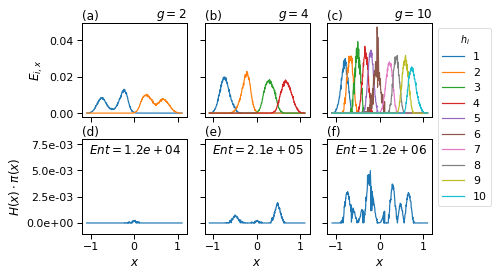
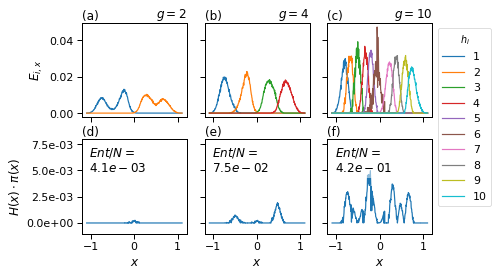
Commit before structural change.

Changed region(s): [[0.6627, 0.5217, 0.8735, 0.6377], [0.1807, 0.5217, 0.3614, 0.6377], [0.4217, 0.5217, 0.6024, 0.6377]]

diff --git a/chapters/hmm_selection/text.tex b/chapters/hmm_selection/text.tex
@@ -98,42 +98,42 @@ The likelihood of  a hidden Markov model is given by \cite{noeProjectedHiddenMar
 \end{split}
 \end{equation}
 
-
 Here $\{s_t\}$ are the observed state trajectories and $\{h_t\}$ are the (unknown) hidden state trajectories. This quantity will be simplified to $L(\theta)$. likelihood is maximized by the Baum Welch algorithm [][] and the corresponding value will be denoted $L(\hat{\theta})$ where $\hat{\theta}$ are the maximum likelihood estimates of the HMM parameters. It is usual to work with the log likelihood and this will be denoted $LL(\hat{\theta})$. 
 
-The optimal values of the CVLL and the AIC both minimize the \emph{Kullback-Leibler} divergence, $D_{KL}(p||p^*)$ - a measure of the difference of one probability distribution, here the modelled distribution,  $p(\{s_t\} | \hat{\theta})$  and a reference distribution, $p^{*}(\{s_t\})$: 
+The optimal values of the CVLL and the AIC both minimize the \emph{Kullback-Leibler} divergence, $D_{KL}(p||q)$ - a measure of the difference of one probability distribution, here the modelled distribution,  $p(\{s_t\} | \hat{\theta})$  and a reference or true distribution, $q(\{s_t\})$: 
 
 \begin{equation}\label{eqn:kl_div}
 \begin{split}
-    D_{KL}(p||p^*) & = \int p^{*}(\{s_t\}) \log{\left(\frac{ p^{*}(\{s_t\}) }{p(\{s_t\} | \hat{\theta})}  \right)} d(\{s_t\}) \\ 
-    & = \int p^{*}(\{s_t\}) \log{\left(p^{*}(\{s_t\})\right)}d(\{s_t\}) - \int p^{*}(\{s_t\})\log{\left(p(\{s_t\} | \hat{\theta})\right)} d(\{s_t\})
+    D_{KL}(p||q) & = \int q(\{s_t\}) \log{\left(\frac{ q(\{s_t\}) }{p(\{s_t\} | \hat{\theta})}  \right)} d(\{s_t\}) \\ 
+    & = \int q(\{s_t\}) \log{\left(q(\{s_t\})\right)}d(\{s_t\}) - \int q(\{s_t\})\log{\left(p(\{s_t\} | \hat{\theta})\right)} d(\{s_t\})
 \end{split}
 \end{equation}
 
-The optimal values of the BIC and ICL maximize the types of integrated likelihood. Minimizing the BIC is equivalent to choosing the model with the largest Bayes factor or the model with the largest posterior probability, given the data. The likelihood used is the observed likelihood (equation \ref{eqn:obs_lik_full}) but integrated over the parameters $\tilde{\mathbf{T}}$ and $\mathbf{E}$: 
+The BIC is an approximation to the log of the observed likelihood, which is the integral of the likelihood over the parameters $\tilde{\mathbf{T}}$ and $\mathbf{E}$: 
 
 \begin{equation}\label{eqn:obs_lik_int}
         p(\{s_t\}) = \int p\left(\{s_{t}\}\middle |\theta \right)p(\theta) \mathrm{d}\theta
 \end{equation}
 
-In the case of the ICL, the likelihood is the complete data likelihood: 
+Here $p(\theta)$ is the prior distribution over the HMM parameters (the transition and emission matrix elements).  The Integrated likelihood selects the model with the greatest evidence for the observed states, i.e. the model with the highest posterior probability, given the observed states only. It naturally penalises more complex models [][], in this case models with larger numbers of hidden states. It has been used to evaluate the quality of coarse graining schemes []. 
+
+The ICL is an approximation to the complete data likelihood: 
 \begin{equation}\label{eqn:class_lik_int}
     p(\{(s_t, h_t)\} = \int p\left(\{(s_{t}, h_{t})\}\middle |\theta \right)p(\theta) \mathrm{d}\theta
 \end{equation}
 
-Although the hidden states are not observed, the hidden states for each MD frame is  taken to be the state with the largest posterior probability, given the observed state i.e. $\arg\max_{i}p(h=i|s=j)$.  
+The Integrated complete likelihood selects the model with the greatest evidence for the observed states and the hidden states. Although the hidden states are not observed, the hidden states are  taken to be the state with the largest posterior probability, given the observed state i.e. $\arg\max_{i}p(h=i|s=j)$.  
 
 
 \subsubsection{The Akaike Information Criterion, AIC}. 
 
-The AIC is defined as:
+The AIC approximates the second term in equation \ref{eqn:kl_div} as:
 \begin{equation}\label{eqn:aic}
     \operatorname{AIC} = -2\left(\log{L\left(\{s_t\}|\hat{\theta}\right)} - d\right)
 \end{equation}
 where $d$ is the number of degrees of freedom of the model. For a reversible hidden Markov model with $g$ hidden states and $n$ observed states  $d = \sfrac{1}{2}g(g-1) + (g-1) + g(n-1)$ \cite{trendelkamp-schroerEstimationUncertaintyReversible2015b}. 
 
-
-The AIC arises from the approximation of the second term in the definition of the $D_{KL}$ (equation \ref{eqn:kl_div}), the first being independent of the model and thus irrelevant. The derivation starts by approximating the true distribution $p^{*}(\{s_t\})$ with the empirical distribution, giving rise to the $\log{L\left(\{s_t\}|\hat{\theta}\right)}$ term.  This will naturally over-fit to the data and the  $d$ term is a bias correction term to account for this.  $d$ is only equal to the degrees of freedom of the model under the assumption that the true model is under consideration. The $-2$ is there to make an equivalence with Mallows $C_p$ \cite{friedman2001elements}. The selected model is the one which has the smallest AIC or in other words, the model which has the smallest KL divergence relative to the true data generating process. 
+The derivation starts by approximating the true distribution $q(\{s_t\})$ with the empirical distribution, giving rise to the $\log{L\left(\{s_t\}|\hat{\theta}\right)}$ term.  This will naturally over-fit to the data and the  $d$ term is a bias correction term to account for this.  $d$ is only equal to the degrees of freedom of the model under the assumption that the true model is under consideration in the model selection procedure.  The $-2$ is there to make an equivalence with Mallows $C_p$ \cite{friedman2001elements}. The selected model is the one which has the smallest AIC or in other words, the model which has the smallest KL divergence relative to the true data generating process. 
 
 \subsubsection{The cross-validated log-likelihood, CVLL}. 
 Maximizing the the cross-validated log-likelihood also minimizes the KL-divergence \cite{celeuxSelectingHiddenMarkov2008}. The CVLL is calculated in the following way: 
@@ -150,12 +150,16 @@ There are two points of failure in this procedure. First, the HMM may fail to co
 
 In order to make the values of the CVLL comparable to the other criteria the CVLL was multiplied by: $2$ to account for the parameters being estimated on half of the data (and the log-likelihood scales linearly with the number of observations), and then $-2$ to account for the same factor in the definition of AIC, BIC and ICL. Thus the \emph{minimum} of the CVLL determines the selected model.  
 
-\subsubsection{Bayesian information criterion, BIC}. 
-The BIC is defined as: 
+\subsubsection{Bayesian information criterion, BIC}. \label{sec:bic}
+The BIC approximates the log of equation \ref{eqn:obs_lik_int} as:
 \begin{equation}\label{eqn:bic}
     \operatorname{BIC} = -2\left(\log{\left(L\left(\{s_t\}\middle|\theta\right)\right)} - \frac{1}{2}d\log{\left(N_{obs}\right)}\right)
 \end{equation}
-where $d$ is the degrees of freedom and $N_{obs}$ is the number of observations.  The difference in BIC between two models, $BIC_{1}-BIC_{2}$ is an approximation to the log of the Bayes factor, the selected model is then the one with the smallest BIC. The number of observations is equal to the number of pairs of frames separated by the lag time and so decreases with $\tau$. If there are $q$ independent MD trajectories, of $t_{max}$ frames each, then the number of observations is $N_{obs} = q(t_{max}-\tau)$. The derivation of the BIC approximates the log of the observed likelihood,  $\log{\left(p(\{s_t\}\right)}$, (see equation \ref{eqn:obs_lik_int}) under the assumption that the prior distribution of the parameters $p(\theta)$ is relatively non-informative. There are several drawbacks to the use of the BIC in assessing the number of components in mixture models. First like the AIC, the BIC is also only valid under the assumption that the true model is in the models under consideration. Second,  use of the BIC for assessing mixture models  is not theoretically justified, however simulation studies have shown it to be useful [].  
+where $d$ is the degrees of freedom and $N_{obs}$ is the number of observations.  The difference in BIC between two models, $BIC_{1}-BIC_{2}$ is an approximation to the log of the Bayes factor, the selected model is then the one with the smallest BIC. The number of observations is equal to the number of pairs of frames separated by the lag time and so decreases with $\tau$. If there are $q$ independent MD trajectories, of $t_{max}$ frames each, then the number of observations is $N_{obs} = q(t_{max}-\tau)$. 
+
+The BIC approximation to the integrated likelihood holds as long as regularity conditions\footnote{restrictions placed on the behaviour of the likelihood function so that inference is possible} [] hold on the likelihood functions [schwarz] and that the prior is peaked near the maximum likelihood estimates of the parameters [rafferty and kass].  The former assumption does not hold for finite mixture models in general [peel] but there is support for using the BIC [Raftery and Fraley].
+
+% The derivation of the BIC approximates the log of the observed likelihood,  $\log{\left(p(\{s_t\}\right)}$, (see equation \ref{eqn:obs_lik_int}) under the assumption that the prior distribution of the parameters $p(\theta)$ is relatively non-informative. There are several drawbacks to the use of the BIC in assessing the number of components in mixture models. First like the AIC, the BIC is also only valid under the assumption that the true model is in the models under consideration. Second,  use of the BIC for assessing mixture models  is not theoretically justified [], however simulation studies have shown it to be useful [].  
 
 \subsubsection{Integrated classification likelihood criterion, ICL}. 
 The integrated classification likelihood criterion is derived in a  similar fashion to the BIC, but the starting point is the classification likelihood, equation \ref{eqn:class_lik_int}. The final approximation to $\log{(p(\{(s_t, h_t)\})}$ becomes: 
@@ -163,24 +167,56 @@ The integrated classification likelihood criterion is derived in a  similar fash
 \begin{equation}\label{eqn:icl}
 \begin{split}
         \operatorname{ICL} &= -2\left(\log{\left(L\left(\{(s_t, h_{t})\}\middle|\theta\right)\right)} - H\left(\mathbf{M}\right) - \frac{1}{2}d\log{\left(N_{obs}\right)}\right)     \\
-        & = \operatorname{BIC} + 2H\left(\mathbf{M}\right)
+        & = \operatorname{BIC} + 2\mathrm{Ent}
 \end{split}
 \end{equation}
 
-The $H\left(\mathbf{M}\right)$ is classification entropy, it is  the information entropy for assignment of each observation to a hidden state, summed over all the observations: 
+The $\mathrm{Ent}$ is classification entropy, it is the information entropy for assignment of each observation to a hidden state, summed over all the observations: 
 \begin{equation}
-    H(\mathbf{M}) = -\sum_{t}^{t_{max}} \sum_{j}^{g} M_{s_{t}, j}\log{\left(M_{s_{t}, j}\right)}
+    \mathrm{Ent} = -\sum_{t}^{t_{max}} \sum_{j}^{g} M_{s_{t}, j}\log{\left(M_{s_{t}, j}\right)}
 \end{equation}
 
-The elements of the membership matrix  $M_{i,j}$ are the probability of being in a hidden state $j$ given an observed state $i$, $P(h=j|s=i)$. The inner sum is the entropy of single observation which quantifies the uncertainty with which the model assigns the given observed state to a hidden state. For example in a two hidden state system the classification entropy for a single observed state $i$ will be $p(h=1|s_t=i)\log{p(h=1|s_t=i)} + p(h=2|s_t=i)\log{p(h=2|s_t=i)}$. The ICL inherits the drawbacks and assumptions of the BIC but has been shown to be practically useful for selecting the number of components in mixture models. 
+The elements of the membership matrix  $M_{i,j}$ are the probability of being in a hidden state $j$ given an observed state $i$, $P(h=j|s=i)$. The inner sum is the entropy of single observation which quantifies the uncertainty with which the model assigns the given observed state to a hidden state. For example in a two hidden state system the classification entropy for a single observed state $i$ will be $p(h=1|s_t=i)\log{p(h=1|s_t=i)} + p(h=2|s_t=i)\log{p(h=2|s_t=i)}$. 
 
+
+% The ICL inherits the drawbacks and assumptions of the BIC but has been shown to be practically useful for selecting the number of components in mixture models. 
+
+\subsection{Criteria calculation details}
+There are a number of practical details in calculating the information criteria which need to be addressed. 
+
+The number of observations, $N_{obs}$, needed for the BIC and ICL, was calculated as: 
+\begin{equation}
+    N_{obs} = q\cdot(t_{max} - \tau)
+\end{equation}
+where $q$ is the number of trajectories, $t_{max}$ is the length of each trajectory and $\tau$ is the lag time in units of the trajectory time step. The total number of frames is $N_{frames} = q\cdot t_{max}$
+
+The state space of the HMMs was restricted to a reversibly connected set of  hidden states. This meant that for some stipulated values of $g$ the final model had $g^{\prime}<g$ hidden states. As this sub-setting was performed \emph{after} estimation, the degrees of freedom was still calculated using $g$. 
+
+The classification entropy can be calculated two different ways, which should in principle give the same result but in practice diverged by up to a factor of three in the cases tested. 
+
+In the first method, the hidden state probabilities calculated in the final iteration forward-backward algorithm were used: 
+\begin{enumerate}
+    \item For each observed state in a trajectory, $s_t$, the conditional probability $\gamma_{i}(t)=P\left(h_{t}=i \mid s_t, \theta\right)$ is calculated in the `update' part of the forward-backward algorithm. This is stored in the PyEMMA HMM estimation object for every frame of the trajectories. 
+    \item The entropy was calculated at each frame of the trajectory,  $H(t)=-\sum_{i}\gamma_{i}$ and then summed over the $t_{max}$ frames of a trajectory and then over the $q$ trajectories: $\mathrm{Ent} = \sum^{q} \sum_{t}^{t_{max}} H(t)$
+    \item $\mathrm{Ent}$ was scaled by a factor of $N_{obs}/N_{frames}$ to account for the fact that an observation is a pair of states $s_{t}, s_{t+\tau}$.
+\end{enumerate}
+
+In the second method the entropy used the membership matrix which is itself calculated from the emission matrix, $\mathbf{E}$, and the stationary distributions of the hidden $\tilde{\pi}$ and observed $\pi$ states: 
+\begin{equation}
+    M_{ji} = E_{ij}\frac{\tilde{\pi}_{i}}{\pi_{j}}
+\end{equation}
+where $i$ labels the $g$ hidden states and $j$ the $n$ observed states. The entropy was calculated using $\mathbf{M}$ as: 
+\begin{equation}
+    \mathrm{Ent} = N_{obs}\sum^{n}_{j}\sum^{g}_{i} M_{ji}\log{\left(M_{ji}\right)}
+\end{equation}
+
+The first method was deemed more accurate as the the hidden state probabilities were taken straight from the estimated model without further calculation. However, in the case of AADH the sub-setting of the state space meant re-scaling of the $\gamma_{i}(t)$ would necessary, negating the advantage of the first method, and so the second method was used. 
 
 \subsection{Model selection}
 
-The model selection criteria, CVLL, AIC, BIC and ICL, will be used to select the optimum number of hidden states in a maximum likelihood HMM, using the discrete trajectories sampled from the Prinz potential. Five different values of the Markov lag time will be used, they are $\tau=5, 8, 15, 65, 130$. These values of $\tau$ were chosen because they resolve, respectively $7, 5, 3, 2, 1$ implied timescales in the full MSM state space. As the top three of these timescales are dominant, they resolve $4, 4, 4, 3, 2$ hidden states and so provide an easy way of comparing the performance of the indicators over different numbers of true hidden states\cite{noeProjectedHiddenMarkov2013a}. The implied timescales for HMMs using the `true' number of states is shown in figure \ref{fig:prinz}, panel (b). The vertical black lines are located at the chosen values of $\tau$.
+The model selection criteria, CVLL, AIC, BIC and ICL, will be used to select the optimum number of hidden states in a maximum likelihood HMM, using the discrete trajectories sampled from the Prinz potential. Five different values of the Markov lag time will be used, they are $\tau=5, 8, 15, 65, 130$. These values of $\tau$ were chosen because they resolve, respectively $7, 5, 3, 2, 1$ implied timescales in the full MSM state space. As the top three of these timescales are dominant, they resolve $4, 4, 4, 3, 2$ hidden states and so provide an easy way of comparing the performance of the indicators over different numbers of true hidden states\cite{noeProjectedHiddenMarkov2013a}. The implied timescales for HMMs using the `true' number of states is shown in figure \ref{fig:prinz}, panel (b). The vertical black lines are located at the chosen values of $\tau$. For each value of $\tau$, nine different maximum likelihood Markov models were estimated with $2 - 10$ hidden states. 
 
-For each value of $\tau$, nine different maximum likelihood Markov models were estimated with $2 - 10$ hidden states. Up to four different models were selected by the four selection criteria and these were compared to the model with the true number of hidden states by means of the Chapman-Kolmogorov test using Bayesian estimation to determine the uncertainty in the parameter estimates. However, the CK test was only performed if a Bayesian model could be converged. The convergence criterion was set to $|\hat{R}-1|<0.1$ using Gelman-Rubin R-hat statistic on two independent MCMC chains. The same methodology was applied to the four different discretisations and values of $\tau$ tabulated in table \ref{tab:aadh_final_msm_specs}. 
-
+For AADH the information criteria were calculated for HMMs with $g = 2 - 20$ hidden states for each of the four different discretization specifications listed in table \ref{tab:aadh_final_msm_specs}.  The HMM with the smallest ICL was selected and estimated using a Bayesian hidden Markov model with two chains of  $1000$ burn-in steps and $1000$ sampling steps. The convergence of the transition matrix elements was checked using the Gelman-Rubin R-hat statistic. 
 
 \section{Results and discussion}\label{sec:hmm_results}
 \subsection{Prinz Potential}
@@ -231,19 +267,39 @@ Although the AIC, BIC and ICL are derived from different starting points, they a
 \begin{equation}
     -2LL(\hat{\theta}; \{s\}) + b
 \end{equation}
-The AIC over-estimates the number of hidden states for each value of $\tau$. The penalty term, $b=2d$, increases proportional to $g^{2}$ but only affects the selected $g$ for $\tau=15, 65, 130$ (figure \ref{fig:prinz_criteria_results} panels (c), (d) and (e)(ii)). The BIC also over-estimates the number of hidden states but by fewer as the penalty term $b=\log{N}d$, while also proportional to $g^{2}$, has a much larger proportionality constant. 
+The $b$ term in each case penalises the complexity of each model. The nature and scaling of the penalty is different for each criteria. 
+
+The penalty term,$b=2d$, is there to correct the approximation of the KL divergence with the log-likelihood.  It increases proportional to $g^{2}$ but only affects the selected $g$ for $\tau=15, 65, 130$ (figure \ref{fig:prinz_criteria_results} panels (c), (d) and (e)(ii)). Although the AIC is used to estimate the order of finite mixture models, its tendency to over-estimate orders of finite mixtures is well documented [] []. 
+
+The origin of the BIC penalty term, $b=d\log{N}$ is to correct the approximation of the integrated likelihood with the maximum likelihood estimate. The BIC over-estimates the number of hidden states, albeit by a smaller number for each $\tau$, despite the penalty term growing faster with $g$ than the AIC. This could be due to the drawbacks of the integrated likelihood in general, or of its approximation with the BIC. If the latter, then of the two assumptions behind the BIC, described in section \label{sec:bic} the essentially non-informative prior is potentially the most problematic.  The elements of the both the transition matrix and the emission matrix are constrained to be a stochastic matrix (potentially with detailed balance) and to be a probability distribution respectively. 
+
+\begin{figure}
+    \centering
+    \mycaption{The classification entropy of HMMs. Panels (a)-(c) show the emission distributions of HMMs with $\tau=8$ and $g = 2, 4, 10$ respectively. Each coloured line represents a different hidden state. Panels (d) - (f) show the classification entropy across $x$, weighted by the stationary distribution on the observed states: $\pi(x)\sum_{i}E_{i, x}\log{E_{i, x}}$. The label shows the average entropy per observations $Ent/N_{obs} = \sum_{x}\pi(x)H(x)$.}
+    \includegraphics[width=0.8\textwidth]{chapters/hmm_selection/figures/prinz_entropy.png}
+    \label{fig:prinz_ent}
+\end{figure}
+
+The ICL correctly estimates the number of states for $\tau = 8, 15,  65$. The penalty term $b=d\log{N}+2\mathrm{Ent}$ corrects the approximation to the integrated complete data likelihood by the maximum likelihood estimate. This penalty term rises directly with $g$ and also indirectly the overlap of emission distributions increases the classification entropy. This is demonstrated in figure \ref{fig:prinz_ent}. Panel (a) shows the emission distribution for a two state HMM. These two distributions only overlap around the high barrier at $x=0$. Panel (d) shows the entropy at each value of $x$, weighted by the stationary distribution over the observed states, $\pi(x)$. The entropy is zero almost everywhere as each value of $x$ can be assigned unambiguously to a hidden state. The exception is around $x=0$ where the entropy reaches its highest possible value $\pi(0)\log{0.5}$, however, the average classification entropy per observation, $\sum_{x}\pi\sum_{i}E_{i, x}\log{E_{i, x}}$ is low. As the number of hidden states increases, panels (b) and (c), the weighted entropy becomes larger because the hidden states overlap in regions which are visited more often (panel (e)) and because more than two states overlap significantly (panel (f)). Comparing columns (iii) and (iv) in figure \ref{fig:prinz_criteria_results}, it is the entropy term which causes the success of the ICL. 
+
+Minimizing the entropy penalty alone is similar to maximizing the crispness/scaling condition  in robust PCCA (equation 4.19 in \cite{deuflhardRobustPerronCluster2005b}) in that it maximizes the number of  observed states that are unambiguously assigned to one hidden state.  However, the minimum entropy solution will lump the observed states into two hidden states separated by the slowest relaxation process. The two state solution for small $\tau$ doesn't capture the potential intra-state dynamics. So the ICL then balances this with the maximizing the integrated observed likelihood (the BIC term) which will increase the number of hidden states to more accurately model both the distribution of observed states and, albeit indirectly, the transition matrix. 
+
+The integrated completed data likelihood is a natural criterion for the purpose of coarse graining  models of conformational dynamics. The purpose of coarse graining is to provide an interpretable model of dynamics which naturally means balancing simplicity and accuracy. Part of the simplicity of a coarse grained model is being able to interpret given structures as belonging to a particular metastable state. Considering the integrated classification likelihood naturally penalises less interpretable solutions by considering the models' evidence for both the observed states and the classification into hidden states [biernacki]. 
+
+Despite the natural interpretation of the ICL, it fails in the simple model for both $\tau=5$ and $130$, selecting one more hidden state than the true number.In the case of $\tau=5$  scores for $3\le g \le 8$ are within \SI{1}{\percent} of each other, the ICL has not narrowed space of potential models appreciably. However, in the case of $\tau =130$, scores for $g\ge 4$ are more than \SI{4}{\percent} different to $g=2, 3$ narrowing the model search space to just $g=2, 3$. Further model criticism using implied timescale plots and the convergence of the a Bayesian HMM can be used to discriminate between these two models. Understanding the causes of the breakdown in the ICL suffer from the same issues as BIC approximation and further work is needed to understand the cause of the discrepancy between the true and selected number of hidden states. 
 
 
-The ICL correctly estimates the number of states for $\tau = 8, 15,  65$. The penalty term $b=d\log{N}+2H(\mathbf{M})$ rises directly with $g$ and also indirectly the overlap of emission distributions increases the classification entropy. This entropy term is what causes the success of the ICL. 
+\section{AADH}
 
-Points to note: 
-\begin{enumerate}
-    \item The Chapman-Kolmogorov tests do not differentiate between $g = 2, 3, 4$ states up to $10\tau$ I.e. $T(\tau)^10 = T(10\tau)$ for $g = 2, 3, 4$ hidden states. See figures \ref{fig:prinz_ck_test_5_2} to \ref{fig:prinz_ck_test_5_4}. There's only four states for $\tau < 64$ (the third relaxation process has a lifetime of $64$ time steps. 
-    \item There is a cross-validated log likelihood difference between $g = 2 - 4$, see figure \ref{fig:prinz_criteria_results} panel (a)(i) (and for that matter, the non-cross-validated log-likelihood (a)(ii) blue bars) which favours $4$ vs $3,2$. 
-    \item However, the likelihood criteria overestimate the number of hidden states. The closest is the ICL with $g=5$. The CK tests for $g=5, 9, 10$ are shown in figures \ref{fig:prinz_ck_test_5_5} - \ref{fig:prinz_ck_test_5_10}. They are re-assuringly rubbish. 
-    \item Contra the Noe HMM paper \cite{noeProjectedHiddenMarkov2013a}, increasing the number of hidden states above the `actual' number i.e. $g = 5, 6, 7, 8, 9$, doesn't affect the timescale estimates of the `true' timescales, see figure \ref{fig:prinz_its_tau_5}.
-    \item it's puzzling that the likelihood increases for increasing $g$, even the cross-validated value. The likely reason has to do with that the hidden states for $g = 9$ (for instance) overlap a lot. See the lhs panes in figure \ref{fig:prinz_emission_dens_tau_5}.  
-\end{enumerate}
+
+% Points to note: 
+% \begin{enumerate}
+%     \item The Chapman-Kolmogorov tests do not differentiate between $g = 2, 3, 4$ states up to $10\tau$ I.e. $T(\tau)^10 = T(10\tau)$ for $g = 2, 3, 4$ hidden states. See figures \ref{fig:prinz_ck_test_5_2} to \ref{fig:prinz_ck_test_5_4}. There's only four states for $\tau < 64$ (the third relaxation process has a lifetime of $64$ time steps. 
+%     \item There is a cross-validated log likelihood difference between $g = 2 - 4$, see figure \ref{fig:prinz_criteria_results} panel (a)(i) (and for that matter, the non-cross-validated log-likelihood (a)(ii) blue bars) which favours $4$ vs $3,2$. 
+%     \item However, the likelihood criteria overestimate the number of hidden states. The closest is the ICL with $g=5$. The CK tests for $g=5, 9, 10$ are shown in figures \ref{fig:prinz_ck_test_5_5} - \ref{fig:prinz_ck_test_5_10}. They are re-assuringly rubbish. 
+%     \item Contra the Noe HMM paper \cite{noeProjectedHiddenMarkov2013a}, increasing the number of hidden states above the `actual' number i.e. $g = 5, 6, 7, 8, 9$, doesn't affect the timescale estimates of the `true' timescales, see figure \ref{fig:prinz_its_tau_5}.
+%     \item it's puzzling that the likelihood increases for increasing $g$, even the cross-validated value. The likely reason has to do with that the hidden states for $g = 9$ (for instance) overlap a lot. See the lhs panes in figure \ref{fig:prinz_emission_dens_tau_5}.  
+% \end{enumerate}
 
 
 
